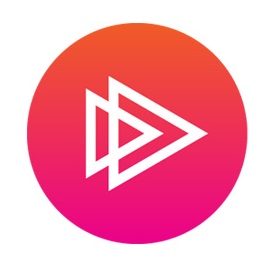
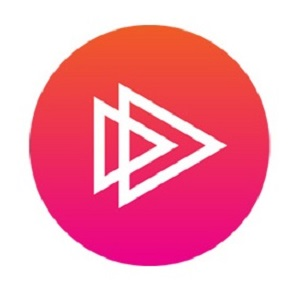
Stuff
Bildergröße angepasst.

diff --git a/css/main.css b/css/main.css
@@ -205,7 +205,7 @@ hr {
     background: #000;
 }
 .fenster a img {
-	width: 6.25em;  
+	width: 15%;  
 	float: left;
 	padding: 10px;
 	border: 1px solid black;
